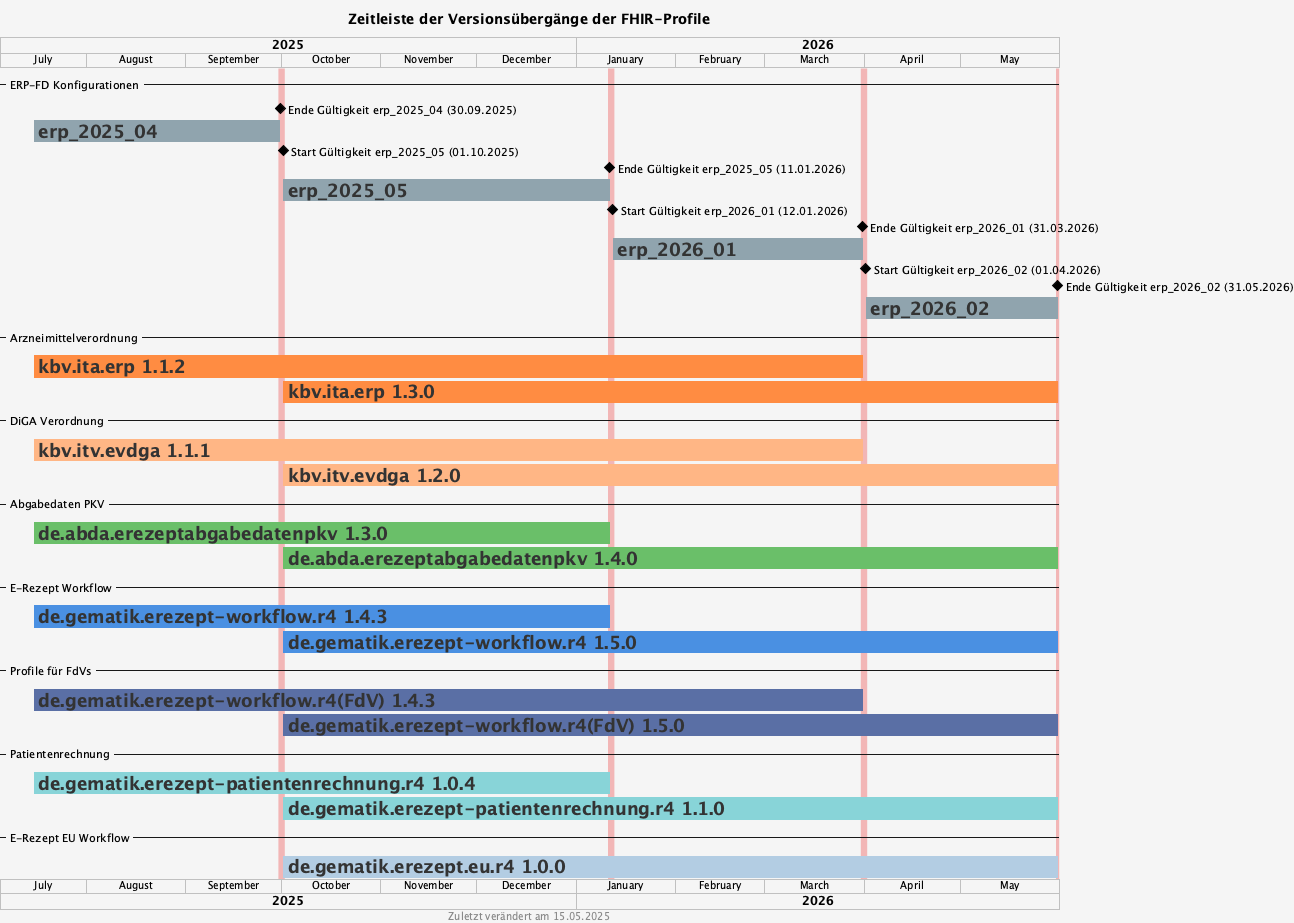
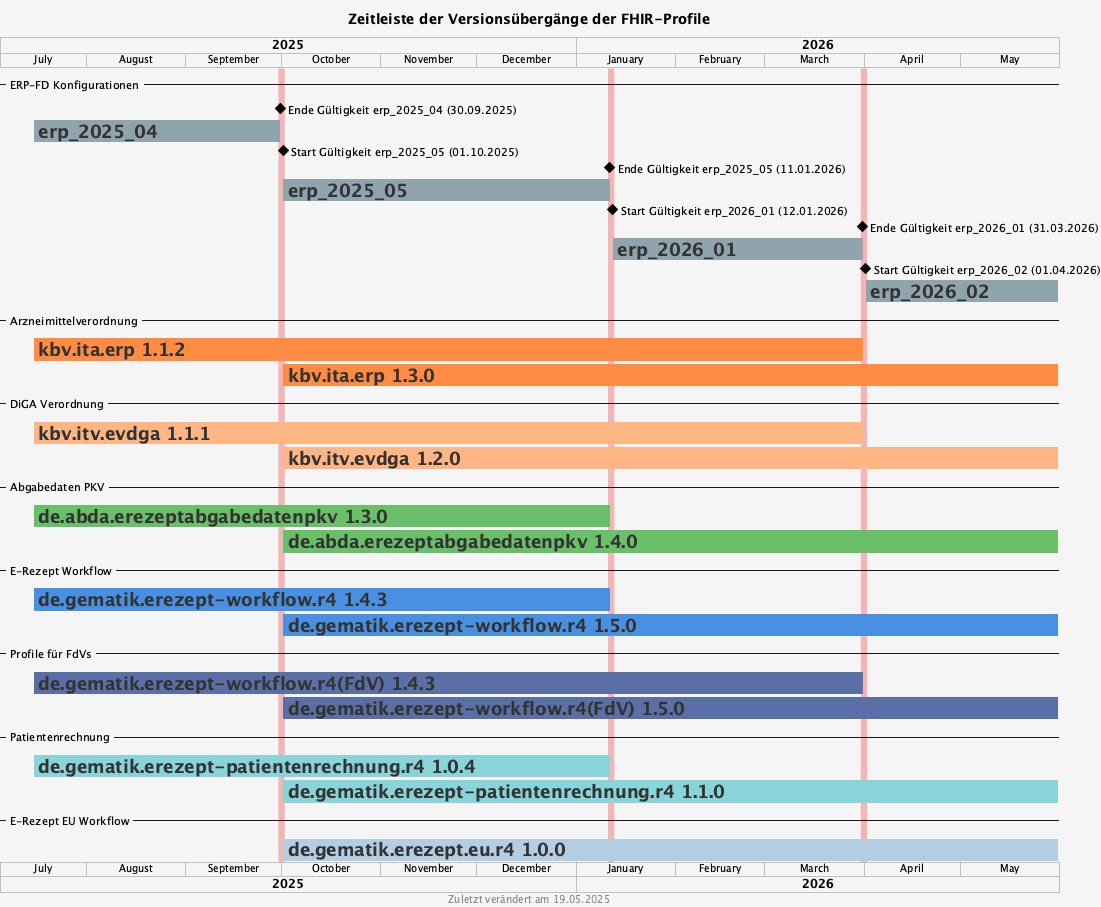
fix end date on puml

Changed region(s): [[0.0, 0.0, 1.0, 1.0], [0.8955, 0.0617, 0.9264, 0.0926]]

diff --git a/resources/scripts/fhir-timeline-build.py b/resources/scripts/fhir-timeline-build.py
@@ -190,8 +190,8 @@ def generate_gantt(configurations, package_mappings):
             puml.append(f"{valid_from} is colored datelinecolor")
         if valid_to:
             puml.append(f"{valid_to} is colored datelinecolor")
-        else:
-            puml.append(f"{global_end_date} is colored datelinecolor")
+        # else:
+        #     puml.append(f"{global_end_date} is colored datelinecolor")
         puml.append("")
 
         # Add configuration markers
@@ -206,11 +206,11 @@ def generate_gantt(configurations, package_mappings):
                 f"[Ende Gültigkeit {config['name']} ({valid_to[8:10]}.{valid_to[5:7]}.{valid_to[:4]})] "
                 f"happens on {valid_to}"
             )
-        else:
-            end_marker = (
-                f"[Ende Gültigkeit {config['name']} ({global_end_date[8:10]}.{global_end_date[5:7]}.{global_end_date[:4]})] "
-                f"happens on {global_end_date}"
-            )
+        # else:
+        #     end_marker = (
+        #         f"[Ende Gültigkeit {config['name']} ({global_end_date[8:10]}.{global_end_date[5:7]}.{global_end_date[:4]})] "
+        #         f"happens on {global_end_date}"
+        #     )
         puml.append(end_marker)
         puml.append("")
 
